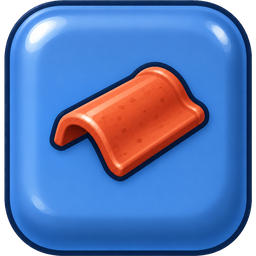
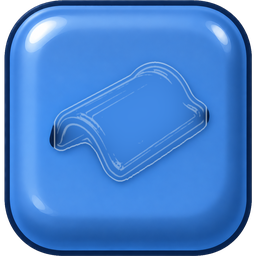
Make block emblems faint outlines
The emblem is painted over with the block colour and only its contour and
main inner edges stay, as light semi-transparent lines, so the board is
calmer on the eyes. Original block art is kept in art_source/blocks.

Claude-Session: https://claude.ai/code/session_01352siDM1CUZ1yFaoQqG9LA

Changed region(s): [[0.1875, 0.2188, 0.8125, 0.7188]]

diff --git a/tools/art/ghost_emblems.py b/tools/art/ghost_emblems.py
@@ -1,0 +1,46 @@
+# Turn block emblems into faint light outlines (originals in art_source/blocks).
+# Usage: python3 ghost_emblems.py art_source/blocks <out folder> [line alpha 0.6], then cut_blocks.py <out folder> unity/Assets/_Game/Art/Resources/Board
+import sys, os, numpy as np
+from PIL import Image
+from scipy import ndimage as ndi
+def emblem_mask(a):
+    lum=a.mean(2); H,W=lum.shape
+    body=np.median(lum[300:720,180:250])
+    dark=lum<0.6*body
+    reg=np.zeros_like(dark); reg[240:800,240:800]=True
+    # colour far from the body colour of the same row (the gloss runs top to bottom)
+    rowcol=np.median(np.concatenate([a[:,150:200],a[:,820:870]],1),1)
+    far=np.linalg.norm(a-rowcol[:,None,:],axis=2)>70
+    dark=(dark|far)&reg
+    dark=ndi.binary_closing(dark,iterations=3)
+    lab,n=ndi.label(dark); sz=ndi.sum(dark,lab,range(1,n+1))
+    keep=np.isin(lab,1+np.where(sz>2000)[0])
+    m=ndi.binary_fill_holes(keep)
+    return ndi.binary_dilation(m,iterations=3)
+src, out, line_alpha = sys.argv[1], sys.argv[2], float(sys.argv[3]) if len(sys.argv) > 3 else 0.45
+for c in ['blue','brown','gray','green','purple']:
+    a=np.array(Image.open(f'{src}/block_{c}.png').convert('RGB')).astype(np.float32)
+    m=emblem_mask(a)
+    lum=a.mean(2); body=np.median(lum[300:720,180:250])
+    # paint over: diffuse the surrounding body colour into the emblem area
+    f=a.copy(); rowcol=np.median(np.concatenate([a[:,150:200],a[:,820:870]],1),1)
+    f[m]=np.broadcast_to(rowcol[:,None,:],a.shape)[m]
+    small=m[::4,::4]; fs=f[::4,::4].copy()
+    for _ in range(400):
+        blur=np.stack([ndi.uniform_filter(fs[...,k],3) for k in range(3)],-1)
+        fs[small]=blur[small]
+    up=np.array(Image.fromarray(fs.clip(0,255).astype(np.uint8)).resize((1024,1024),Image.BILINEAR)).astype(np.float32)
+    soft=ndi.gaussian_filter(m.astype(np.float32),2)[...,None]
+    f=a*(1-soft)+up*soft
+    # line art: the outer contour of the emblem plus its strongest inner edges
+    core=ndi.binary_erosion(m,iterations=3)          # the emblem before the safety margin
+    outer=core&~ndi.binary_erosion(core,iterations=4)
+    g=np.hypot(ndi.sobel(ndi.gaussian_filter(lum,1.5),0),ndi.sobel(ndi.gaussian_filter(lum,1.5),1))
+    inner_zone=ndi.binary_erosion(core,iterations=12)
+    inner=(g>np.percentile(g[inner_zone],88))&inner_zone if inner_zone.any() else np.zeros_like(m)
+    la=(ndi.gaussian_filter(outer.astype(np.float32),1.0)*line_alpha
+        +ndi.gaussian_filter(inner.astype(np.float32),1.0)*line_alpha*0.6)
+    la=np.clip(la,0,line_alpha)[...,None]
+    light=np.array([255,255,250],np.float32)
+    f=f*(1-la)+light*la
+    Image.fromarray(f.clip(0,255).astype(np.uint8)).save(f'{out}/block_{c}.png')
